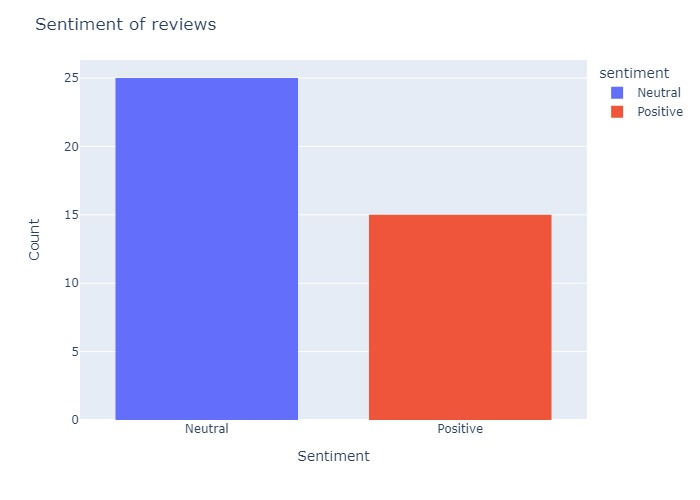
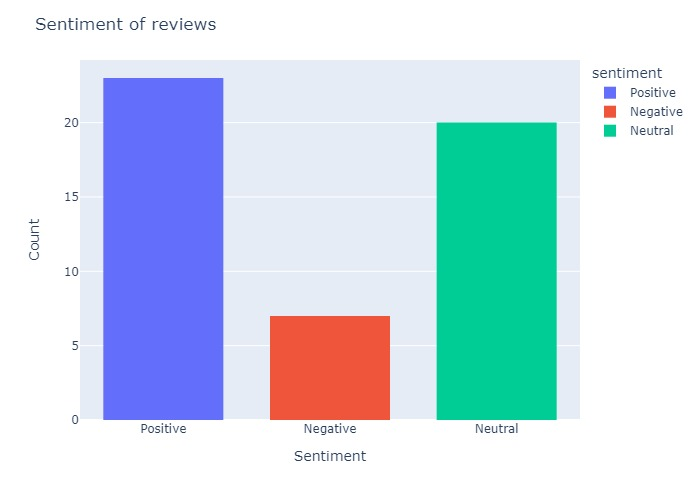
sentiments_op

diff --git a/app.py b/app.py
@@ -7,6 +7,18 @@ from matplotlib.figure import Figure
 import io
 from flask import Response
 import matplotlib.pyplot as plt
+from wtforms import Form, BooleanField, StringField, PasswordField, validators
+
+
+# class RegistrationForm(Form):
+#     username = StringField('Username', [validators.Length(min=4, max=25)])
+#     email = StringField('Email Address', [validators.Length(min=6, max=35)])
+#     password = PasswordField('New Password', [
+#         validators.DataRequired(),
+#         validators.EqualTo('confirm', message='Passwords must match')
+#     ])
+#     confirm = PasswordField('Repeat Password')
+#     accept_tos = BooleanField('I accept the TOS', [validators.DataRequired()])
 
 
 app = Flask(__name__)
@@ -37,12 +49,17 @@ def hashtags():
 @app.route('/sentiments', methods=['GET', 'POST'])
 def sentiment():
     if request.method == "POST":
+        # print(request)
         key_word = request.form.get("key_word")
         nbTweet = request.form.get("nbTweet")
-        # nbTweet = '40'
-        plot_sent(f"{key_word} {nbTweet}")
+        print(request.form)
+        print(request.form.get("key_word"))
+        print(request.form.get("nbTweet"))
+        # # nbTweet = '40'
+        plot_sent(key_word, int(nbTweet))
+        return render_template('sentiment.html')
         # return render_template('sentiment.html', key_word=key_word, nbTweet=nbTweet)
-        return render_template('sentiment.html', key_word=key_word, nbTweet=nbTweet)
+        return render_template('sentiment.html')
     else:
         return render_template('sentiment.html')
 
